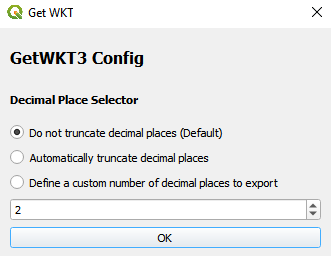
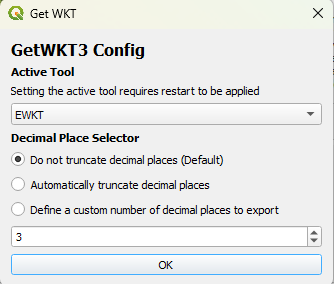
Updates to support single button use
Change tool buttons to a single button with drop down.
Add to config option to select active tool which will be displayed in ui.

diff --git a/getwkt3.py b/getwkt3.py
@@ -29,7 +29,7 @@ from qgis.core import QgsMapLayerType, QgsUnitTypes, QgsSettings
 # Load PyQt5
 from PyQt5.QtCore import QSettings, QTranslator, qVersion, QCoreApplication
 from PyQt5.QtGui import QIcon
-from PyQt5.QtWidgets import QAction
+from PyQt5.QtWidgets import QAction, QMenu, QToolButton
 
 # Initialize Qt resources from file resources.py
 from .resources import *
@@ -99,10 +99,9 @@ class getwkt3:
             callback,
             enabled_flag=True,
             add_to_menu=True,
-            add_to_toolbar=True,
+            add_to_toolbar=None,
             status_tip=None,
-            whats_this=None,
-            parent=None):
+            whats_this=None):
         """Add a toolbar icon to the toolbar.
 
         :param icon_path: Path to the icon for this action. Can be a resource
@@ -123,27 +122,22 @@ class getwkt3:
             be added to the menu. Defaults to True.
         :type add_to_menu: bool
 
-        :param add_to_toolbar: Flag indicating whether the action should also
-            be added to the toolbar. Defaults to True.
+        :param add_to_toolbar: Toolbar to add action to. Defaults to None.
         :type add_to_toolbar: bool
 
         :param status_tip: Optional text to show in a popup when mouse pointer
             hovers over the action.
         :type status_tip: str
 
-        :param parent: Parent widget for the new action. Defaults None.
-        :type parent: QWidget
-
         :param whats_this: Optional text to show in the status bar when the
             mouse pointer hovers over the action.
 
-        :returns: The action that was created. Note that the action is also
-            added to self.actions list.
+        :returns: The action that was created.
         :rtype: QAction
         """
 
         icon = QIcon(icon_path)
-        action = QAction(icon, text, parent)
+        action = QAction(icon, text, self.iface.mainWindow())
         action.triggered.connect(callback)
         action.setEnabled(enabled_flag)
 
@@ -154,49 +148,65 @@ class getwkt3:
             action.setWhatsThis(whats_this)
 
         if add_to_toolbar:
-            self.toolbar.addAction(action)
+            add_to_toolbar.addAction(action)
 
         if add_to_menu:
             self.iface.addPluginToMenu(
                 self.menu,
                 action)
 
-        self.actions.append(action)
-
         return action
 
     def initGui(self):
         """Create the menu entries and toolbar icons inside the QGIS GUI."""
-
+        # Setup wkt button
         icon_path = ':/plugins/getwkt3/wkt.png'
-        self.add_action(
+        self.btn_wkt = self.add_action(
             icon_path,
             text=self.tr(u'Get WKT String'),
-            callback=self.run_wkt,
-            parent=self.iface.mainWindow())
-
+            callback=self.run_wkt)
+        # Setup ewkt button
         icon_path = ':/plugins/getwkt3/ewkt.png'
-        self.add_action(
+        self.btn_ewkt = self.add_action(
             icon_path,
             text=self.tr(u'Get EWKT String'),
-            callback=self.run_ewkt,
-            parent=self.iface.mainWindow())
-
+            callback=self.run_ewkt)
+        # Setup json button
         icon_path = ':/plugins/getwkt3/json.png'
-        self.add_action(
+        self.btn_json = self.add_action(
             icon_path,
             text=self.tr(u'Get JSON String'),
-            callback=self.run_json,
-            parent=self.iface.mainWindow())
-
+            callback=self.run_json)
+        # Setup config button
         icon_path = ':/plugins/getwkt3/config.png'
-        self.add_action(
+        self.btn_settings = self.add_action(
             icon_path,
             text=self.tr(u'Open Config'),
-            callback=self.open_config,
-            parent=self.iface.mainWindow(),
-            add_to_toolbar=False)
-
+            callback=self.open_config)
+        # Build popup menu
+        self.popupMenu = QMenu( self.iface.mainWindow() )
+        self.popupMenu.addAction( self.btn_wkt )
+        self.popupMenu.addAction( self.btn_ewkt )
+        self.popupMenu.addAction( self.btn_json )
+        # Setup tll button
+        self.toolButton = QToolButton()
+        self.toolButton.setMenu( self.popupMenu )
+        # Set default button
+        self.set_default_button()
+        # Set popup mode
+        self.toolButton.setPopupMode(QToolButton.MenuButtonPopup)
+        #Add widget to toolbar
+        self.toolbar.addWidget(self.toolButton)
+    
+    # Helper function to set default button
+    def set_default_button(self):
+        if self.s.value("getwkt3/toolmethod") == "EWKT":
+            self.toolButton.setDefaultAction(self.btn_ewkt)
+        elif self.s.value("getwkt3/toolmethod") == "JSON":
+            self.toolButton.setDefaultAction(self.btn_json)
+        else:
+            self.toolButton.setDefaultAction(self.btn_wkt)
+        
     def unload(self):
         """Removes the plugin menu item and icon from QGIS GUI."""
         for action in self.actions:
@@ -308,7 +318,7 @@ class getwkt3:
         """Opens config menu"""
         self.cfg.show()
         self.cfg.exec_()
-
+        
     def standardise_wkt(self, wkt):
         #Setup standardisers
         standards = {

diff --git a/getwkt3_config.py b/getwkt3_config.py
@@ -53,17 +53,31 @@ class getwkt3Config(QtWidgets.QDialog, FORM_CLASS):
         if not val:
             val = 10
         self.dp_numCustom.setValue(int(val))
+        # Setup selected default tool
+        self.tool_cmbDefault.clear()
+        self.tool_cmbDefault.addItems(["WKT", "EWKT", "JSON"])
+        tool = self.s.value("getwkt3/toolmethod")
+        tool_idx = self.tool_cmbDefault.findText(tool)
+        if tool_idx == -1:
+            tool_idx = 0
+        self.tool_cmbDefault.setCurrentIndex(tool_idx)
         #Connect events
         self.dp_radDefault.clicked.connect(self.dp_handleChange_Default)
         self.dp_radAuto.clicked.connect(self.dp_handleChange_Auto)
         self.dp_radCustom.clicked.connect(self.dp_handleChange_Custom)
         self.dp_numCustom.valueChanged.connect(self.dp_handleChange_CustomValue)
+        self.tool_cmbDefault.currentIndexChanged.connect(self.tool_handleDefaultChange)
 
     def handleHide(self):
         """Hide handle"""
         self.hide()
 
-    def dp_handleChange(self, type, value=17):
+    def tool_handleDefaultChange(self, value):
+        """Handle change to tool default method"""
+        #Update dp setting
+        self.s.setValue("getwkt3/toolmethod", self.tool_cmbDefault.currentText())
+    
+    def dp_handleChange(self, type):
         """Handle change to dp method"""
         #Update dp setting
         self.s.setValue("getwkt3/dpmethod", type)

diff --git a/README.md b/README.md
@@ -1,13 +1,19 @@
 Get WKT (QGIS Plugin)
 ===========
 
-QGIS plugin that allows you to view the WKT,EWKT or JSON of a geometry.
+QGIS plugin that allows you to view the WKT, EWKT or JSON of a geometry.
 
-![](screenshot_qgis.png)
+![](screenshot_qgis_toolbar.png)
 
-This plugin displays the selected features' WKT,EWKT or JSON representation.
+This plugin displays the selected features' WKT,EWKT or JSON representation. Copy the textual representation of your feature and paste it into other apps and api's directly.
 
-The number of decimal places returned by the tool can be specified in the tools settings. The auto setting takes a guess at the number of decimal places that are appropriate based on the layers CRS.
+![](screenshot_qgis_tool.png)
+
+The plugin can be configured via the 'Plugins' menu. 
+
+![](screenshot_qgis_menu.png)
+
+The config allows users to configure the default tool selected on the Toolbar, as well as specify the number of decimal places in text exported via the tool. The auto setting takes a guess at the number of decimal places that are appropriate based on the layers CRS.
 
 ![](screenshot_config.png)
 
@@ -24,8 +30,8 @@ On a system with OSGeo, open the OSGeo Shell and run build.bat in the project fo
 * 1.2 Added fix for 3.8 (Thanks imajic-unimelb https://github.com/imajic-unimelb) and support for making windows larger.
 * 1.3 Added fix to align WKT using X and M values to standard, and to provide a mechanism to control the number of decimal places exported (Thanks heidivanparys https://github.com/heidivanparys #5). Minor change to build scripts and move to using plugins menu rather than vector
 * 1.4 Added fix for decimal precision setting not honouring type #7. Also a minor update to build process and squashed a bug not allowing an export of 0 zero decimal places.
+* 1.5 Reduced default number of buttons on toolbar and allow selection of default action #9. Merged changes from piomar123 (https://github.com/piomar123 #10 #11) to add a copy button and to ensure window is on top
 
 # Future Plans
-Add option to pad string with ST_GEOMFROMTEXT/STGEOMFROMTEXT for use in PostGIS/MSSQL Spatial (Unknown ETA)
-Add option to force geometry demotion/promotion or to match source (Unknown ETA)
-Add option to copy text to clipboard and bypass text window (Unknown ETA due to limitation in the API)
+* Add option to pad string with ST_GEOMFROMTEXT/STGEOMFROMTEXT for use in PostGIS/MSSQL Spatial (Unknown ETA)
+* Add option to force geometry demotion/promotion or to match source (Unknown ETA)
